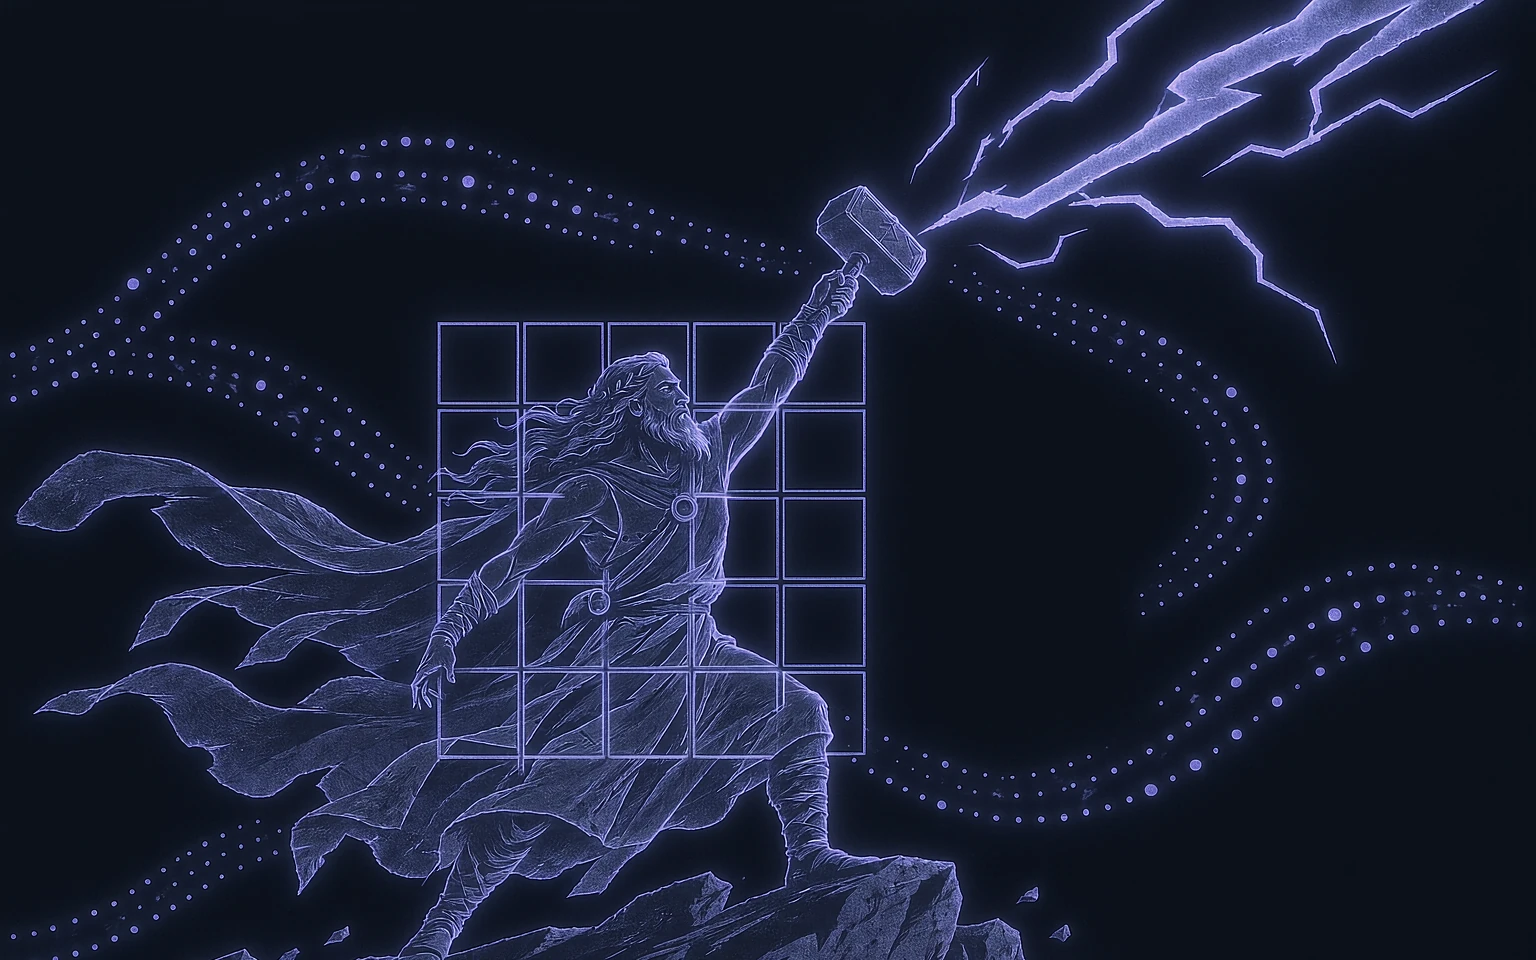
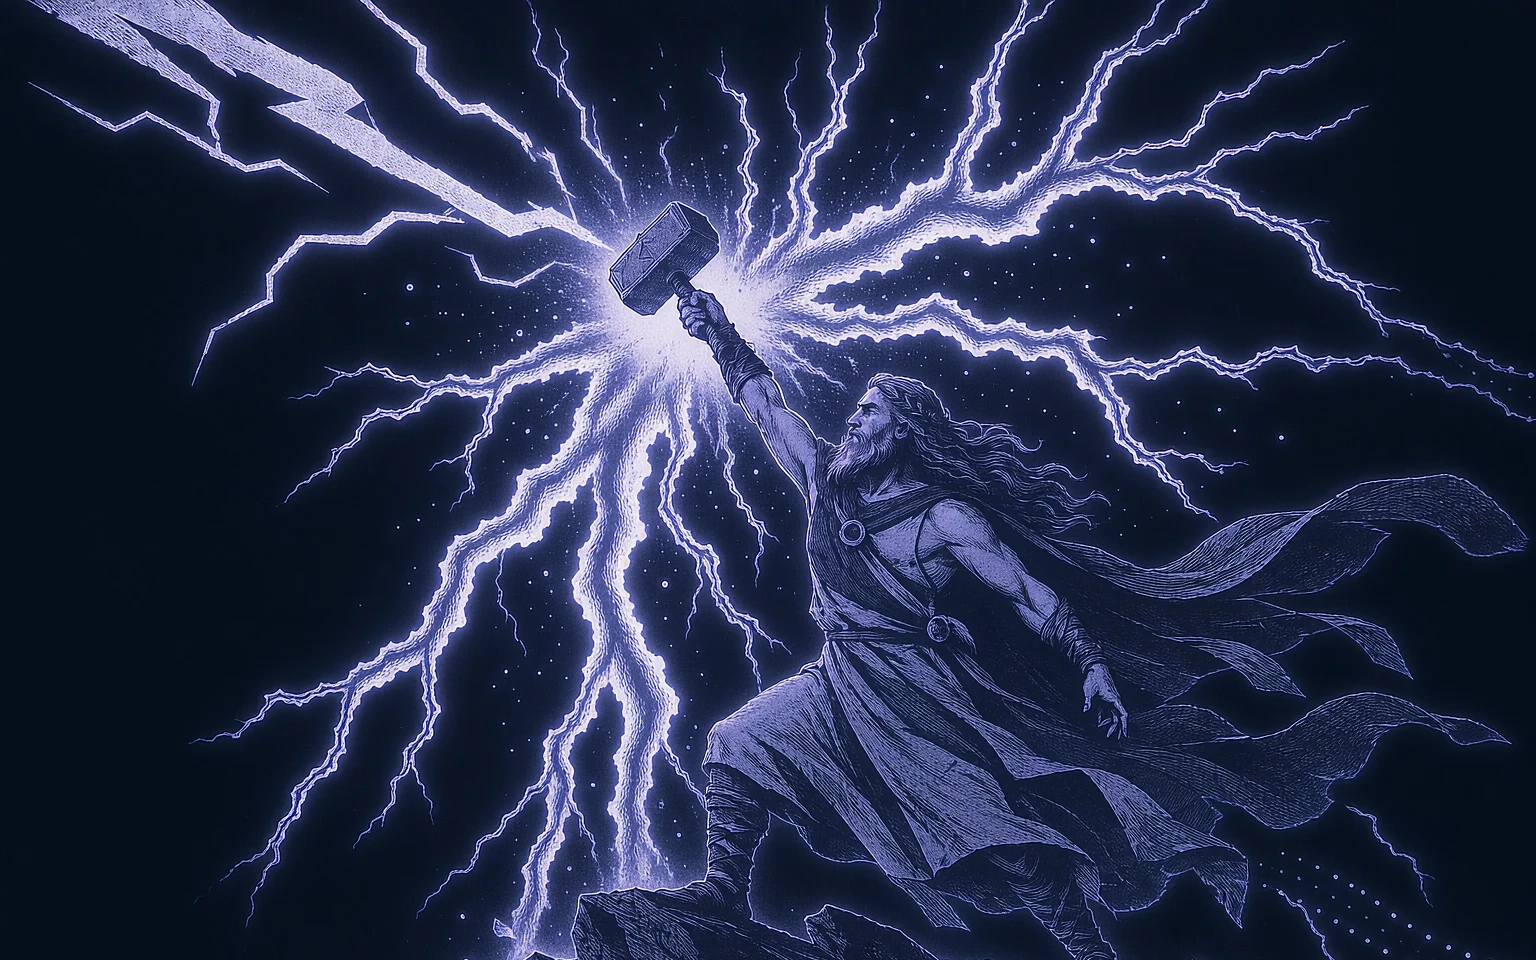
thunder hero: airy Thor facing text + dramatic lightning, no grid (light+dark)

diff --git a/site.css b/site.css
@@ -176,8 +176,8 @@ button.theme-toggle:hover { border-color: var(--acc); }
 }
 .hero-banner--thunder {
   --hb-acc: #4653b0; --hb-glow: rgba(70,83,176,.20);
-  --hb-base: #f8f7f2; --hb-rgb: 248,247,242; --hb-px: left; --hb-py: 90%; --hb-size: auto 127%;
-  --hb-art: url(assets/hero-banner-thunder-classic.webp);
+  --hb-base: #dbcebd; --hb-rgb: 219,206,189; --hb-px: left; --hb-py: 38%; --hb-size: auto 127%;
+  --hb-art: url(assets/hero-banner-thunder-classic.webp?v=2);
 }
 
 /* the artwork layer, feathered along its left edge */
@@ -257,8 +257,8 @@ html[lang="zh-CN"] .hb-kicker { letter-spacing: .06em; }
   --hb-acc: #ff8a5c; --hb-glow: rgba(255,116,64,.5);
 }
 :root[data-theme="dark"] .hero-banner--thunder {
-  --hb-base: #0c111c; --hb-rgb: 12,17,28; --hb-px: left; --hb-py: 28%; --hb-size: auto 127%;
-  --hb-art: url(assets/hero-banner-thunder-classic-dark.webp);
+  --hb-base: #050e1a; --hb-rgb: 5,14,26; --hb-px: left; --hb-py: 0%; --hb-size: auto 127%;
+  --hb-art: url(assets/hero-banner-thunder-classic-dark.webp?v=2);
   --hb-acc: #93a8ff; --hb-glow: rgba(110,150,255,.5);
 }
 :root[data-theme="dark"] .hero-banner h1 { text-shadow: 0 0 22px var(--hb-glow), 0 0 60px rgba(0,0,0,.35); }
@@ -274,8 +274,8 @@ html[lang="zh-CN"] .hb-kicker { letter-spacing: .06em; }
     --hb-acc: #ff8a5c; --hb-glow: rgba(255,116,64,.5);
   }
   :root:not([data-theme="light"]) .hero-banner--thunder {
-    --hb-base: #0c111c; --hb-rgb: 12,17,28; --hb-px: left; --hb-py: 28%; --hb-size: auto 127%;
-    --hb-art: url(assets/hero-banner-thunder-classic-dark.webp);
+    --hb-base: #050e1a; --hb-rgb: 5,14,26; --hb-px: left; --hb-py: 0%; --hb-size: auto 127%;
+    --hb-art: url(assets/hero-banner-thunder-classic-dark.webp?v=2);
     --hb-acc: #93a8ff; --hb-glow: rgba(110,150,255,.5);
   }
   :root:not([data-theme="light"]) .hero-banner h1 { text-shadow: 0 0 22px var(--hb-glow), 0 0 60px rgba(0,0,0,.35); }

diff --git a/thunder/specification.html b/thunder/specification.html
@@ -4,7 +4,7 @@
 <meta charset="utf-8">
 <meta name="viewport" content="width=device-width, initial-scale=1">
 <title>Specification — Thunder (hash-33)</title>
-<link rel="stylesheet" href="../site.css?v=43">
+<link rel="stylesheet" href="../site.css?v=44">
 <script src="../theme.js?v=2"></script>
 <link rel="icon" type="image/png" href="../assets/favicon-thunder.png">
 <meta name="description" content="Thunder (hash-33), an NGCC Round-1 hash candidate: the 12-round permutation Thunder-p (Keccak-p lane geometry, order ι→ρ→θ→π→ψ, degree-3 ψ) in the sponge-forward mode. Parameters, sponge-forward mode and the permutation, with round constants.">

diff --git a/dragon/implementations.html b/dragon/implementations.html
@@ -4,7 +4,7 @@
 <meta charset="utf-8">
 <meta name="viewport" content="width=device-width, initial-scale=1">
 <title>Implementations — Dragon (hash-07)</title>
-<link rel="stylesheet" href="../site.css?v=43">
+<link rel="stylesheet" href="../site.css?v=44">
 <script src="../theme.js?v=2"></script>
 <link rel="icon" type="image/png" href="../assets/favicon-dragon.png">
 <meta name="description" content="Dragon (hash-07), an NGCC Round-1 hash candidate: the 16-round ARX permutation Dragon-p in the sponge-forward mode — specs, code, KAT, performance and third-party analysis. Package layout, build & KAT instructions, implementation-vs-spec review notes.">

diff --git a/dragon/performance.html b/dragon/performance.html
@@ -4,7 +4,7 @@
 <meta charset="utf-8">
 <meta name="viewport" content="width=device-width, initial-scale=1">
 <title>Performance — Dragon (hash-07)</title>
-<link rel="stylesheet" href="../site.css?v=43">
+<link rel="stylesheet" href="../site.css?v=44">
 <script src="../theme.js?v=2"></script>
 <link rel="icon" type="image/png" href="../assets/favicon-dragon.png">
 <meta name="description" content="Dragon (hash-07), an NGCC Round-1 hash candidate: the 16-round ARX permutation Dragon-p in the sponge-forward mode — specs, code, KAT, performance and third-party analysis. Designer self-assessment (S1–S8, x86-64 and ARM) and the ASIC hardware tables.">

diff --git a/dragon/analysis.html b/dragon/analysis.html
@@ -4,7 +4,7 @@
 <meta charset="utf-8">
 <meta name="viewport" content="width=device-width, initial-scale=1">
 <title>Analysis — Dragon (hash-07)</title>
-<link rel="stylesheet" href="../site.css?v=43">
+<link rel="stylesheet" href="../site.css?v=44">
 <script src="../theme.js?v=2"></script>
 <link rel="icon" type="image/png" href="../assets/favicon-dragon.png">
 <meta name="description" content="Dragon (hash-07), an NGCC Round-1 hash candidate: the 16-round ARX permutation Dragon-p in the sponge-forward mode — specs, code, KAT, performance and third-party analysis. Third-party security status, constant-time audit and implementation review notes.">

diff --git a/dragon/specification.html b/dragon/specification.html
@@ -4,7 +4,7 @@
 <meta charset="utf-8">
 <meta name="viewport" content="width=device-width, initial-scale=1">
 <title>Specification — Dragon (hash-07)</title>
-<link rel="stylesheet" href="../site.css?v=43">
+<link rel="stylesheet" href="../site.css?v=44">
 <script src="../theme.js?v=2"></script>
 <link rel="icon" type="image/png" href="../assets/favicon-dragon.png">
 <meta name="description" content="Dragon (hash-07), an NGCC Round-1 hash candidate: the 16-round ARX permutation Dragon-p in the sponge-forward mode — specs, code, KAT, performance and third-party analysis. Parameters, sponge-forward mode and the permutation, with round constants.">

diff --git a/dragon/implementations.zh.html b/dragon/implementations.zh.html
@@ -4,7 +4,7 @@
 <meta charset="utf-8">
 <meta name="viewport" content="width=device-width, initial-scale=1">
 <title>实现 — Dragon (hash-07)</title>
-<link rel="stylesheet" href="../site.css?v=43">
+<link rel="stylesheet" href="../site.css?v=44">
 <script src="../theme.js?v=2"></script>
 <link rel="icon" type="image/png" href="../assets/favicon-dragon.png">
 <meta name="description" content="Dragon（hash-07），NGCC Round-1 杂凑候选：16 轮 ARX 置换 Dragon-p + sponge-forward 前馈模式——规范、实现、自测向量、性能与第三方分析。 提交包结构、构建与 KAT 步骤、实现与规范核对注记。">

diff --git a/dragon/analysis.zh.html b/dragon/analysis.zh.html
@@ -4,7 +4,7 @@
 <meta charset="utf-8">
 <meta name="viewport" content="width=device-width, initial-scale=1">
 <title>分析 — Dragon (hash-07)</title>
-<link rel="stylesheet" href="../site.css?v=43">
+<link rel="stylesheet" href="../site.css?v=44">
 <script src="../theme.js?v=2"></script>
 <link rel="icon" type="image/png" href="../assets/favicon-dragon.png">
 <meta name="description" content="Dragon（hash-07），NGCC Round-1 杂凑候选：16 轮 ARX 置换 Dragon-p + sponge-forward 前馈模式——规范、实现、自测向量、性能与第三方分析。 第三方安全状态、constant-time 审查与实现核对注记。">

diff --git a/thunder/implementations.html b/thunder/implementations.html
@@ -4,7 +4,7 @@
 <meta charset="utf-8">
 <meta name="viewport" content="width=device-width, initial-scale=1">
 <title>Implementations — Thunder (hash-33)</title>
-<link rel="stylesheet" href="../site.css?v=43">
+<link rel="stylesheet" href="../site.css?v=44">
 <script src="../theme.js?v=2"></script>
 <link rel="icon" type="image/png" href="../assets/favicon-thunder.png">
 <meta name="description" content="Thunder (hash-33), an NGCC Round-1 hash candidate: the 12-round Keccak-p-shaped permutation Thunder-p with a degree-3 layer in the sponge-forward mode. Package layout, build & KAT instructions, implementation-vs-spec review notes.">

diff --git a/thunder/specification.zh.html b/thunder/specification.zh.html
@@ -4,7 +4,7 @@
 <meta charset="utf-8">
 <meta name="viewport" content="width=device-width, initial-scale=1">
 <title>规范 — Thunder (hash-33)</title>
-<link rel="stylesheet" href="../site.css?v=43">
+<link rel="stylesheet" href="../site.css?v=44">
 <script src="../theme.js?v=2"></script>
 <link rel="icon" type="image/png" href="../assets/favicon-thunder.png">
 <meta name="description" content="Thunder（hash-33），NGCC Round-1 杂凑候选：12 轮置换 Thunder-p（Keccak-p lane 几何，序 ι→ρ→θ→π→ψ，三次 ψ）+ sponge-forward 前馈模式。 参数表、sponge-forward 模式与置换（含轮常数表）。">

diff --git a/dragon/performance.zh.html b/dragon/performance.zh.html
@@ -4,7 +4,7 @@
 <meta charset="utf-8">
 <meta name="viewport" content="width=device-width, initial-scale=1">
 <title>性能 — Dragon (hash-07)</title>
-<link rel="stylesheet" href="../site.css?v=43">
+<link rel="stylesheet" href="../site.css?v=44">
 <script src="../theme.js?v=2"></script>
 <link rel="icon" type="image/png" href="../assets/favicon-dragon.png">
 <meta name="description" content="Dragon（hash-07），NGCC Round-1 杂凑候选：16 轮 ARX 置换 Dragon-p + sponge-forward 前馈模式——规范、实现、自测向量、性能与第三方分析。 本组自评估（S1–S8，x86-64 与 ARM）与 ASIC 硬件表。">

diff --git a/dragon/specification.zh.html b/dragon/specification.zh.html
@@ -4,7 +4,7 @@
 <meta charset="utf-8">
 <meta name="viewport" content="width=device-width, initial-scale=1">
 <title>规范 — Dragon (hash-07)</title>
-<link rel="stylesheet" href="../site.css?v=43">
+<link rel="stylesheet" href="../site.css?v=44">
 <script src="../theme.js?v=2"></script>
 <link rel="icon" type="image/png" href="../assets/favicon-dragon.png">
 <meta name="description" content="Dragon（hash-07），NGCC Round-1 杂凑候选：16 轮 ARX 置换 Dragon-p + sponge-forward 前馈模式——规范、实现、自测向量、性能与第三方分析。 参数表、sponge-forward 模式与置换（含轮常数表）。">
